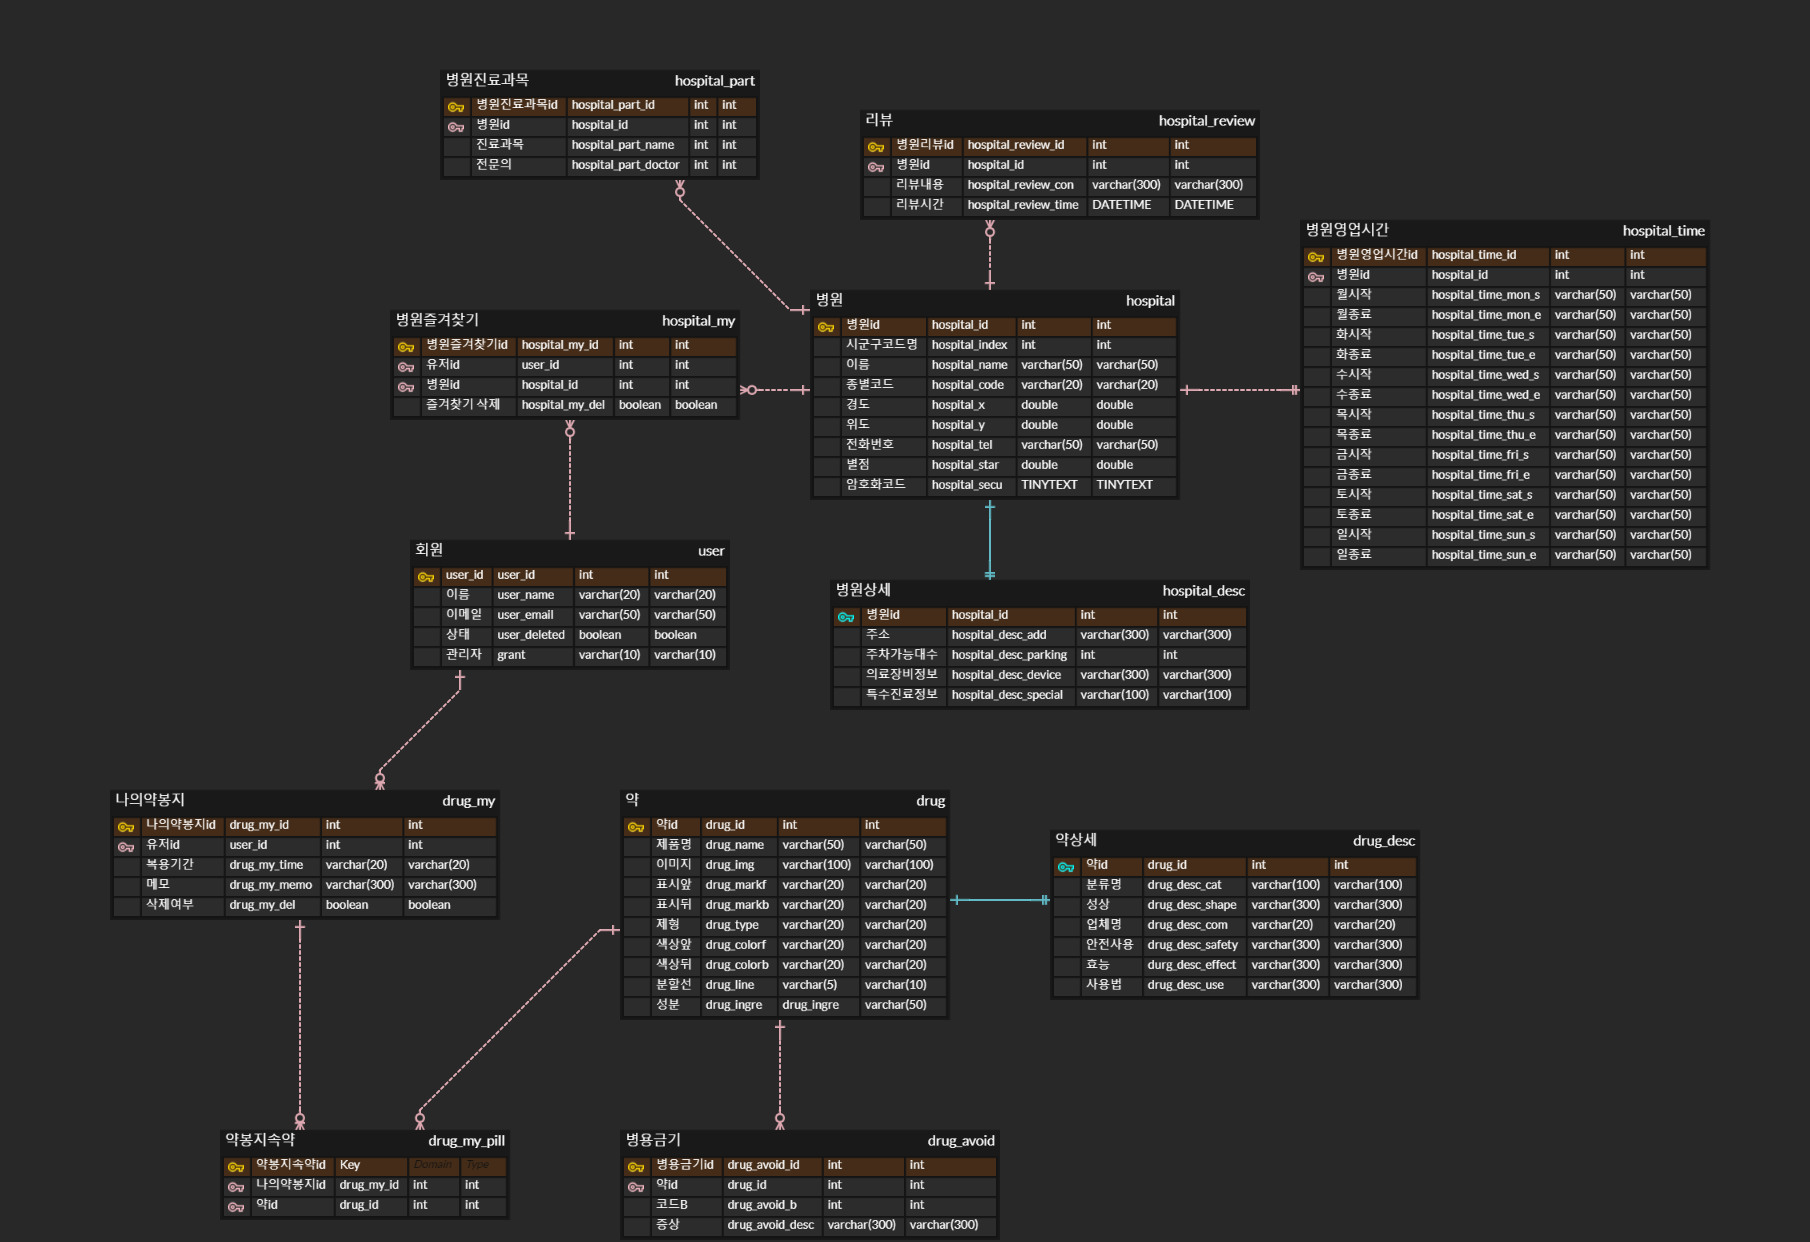
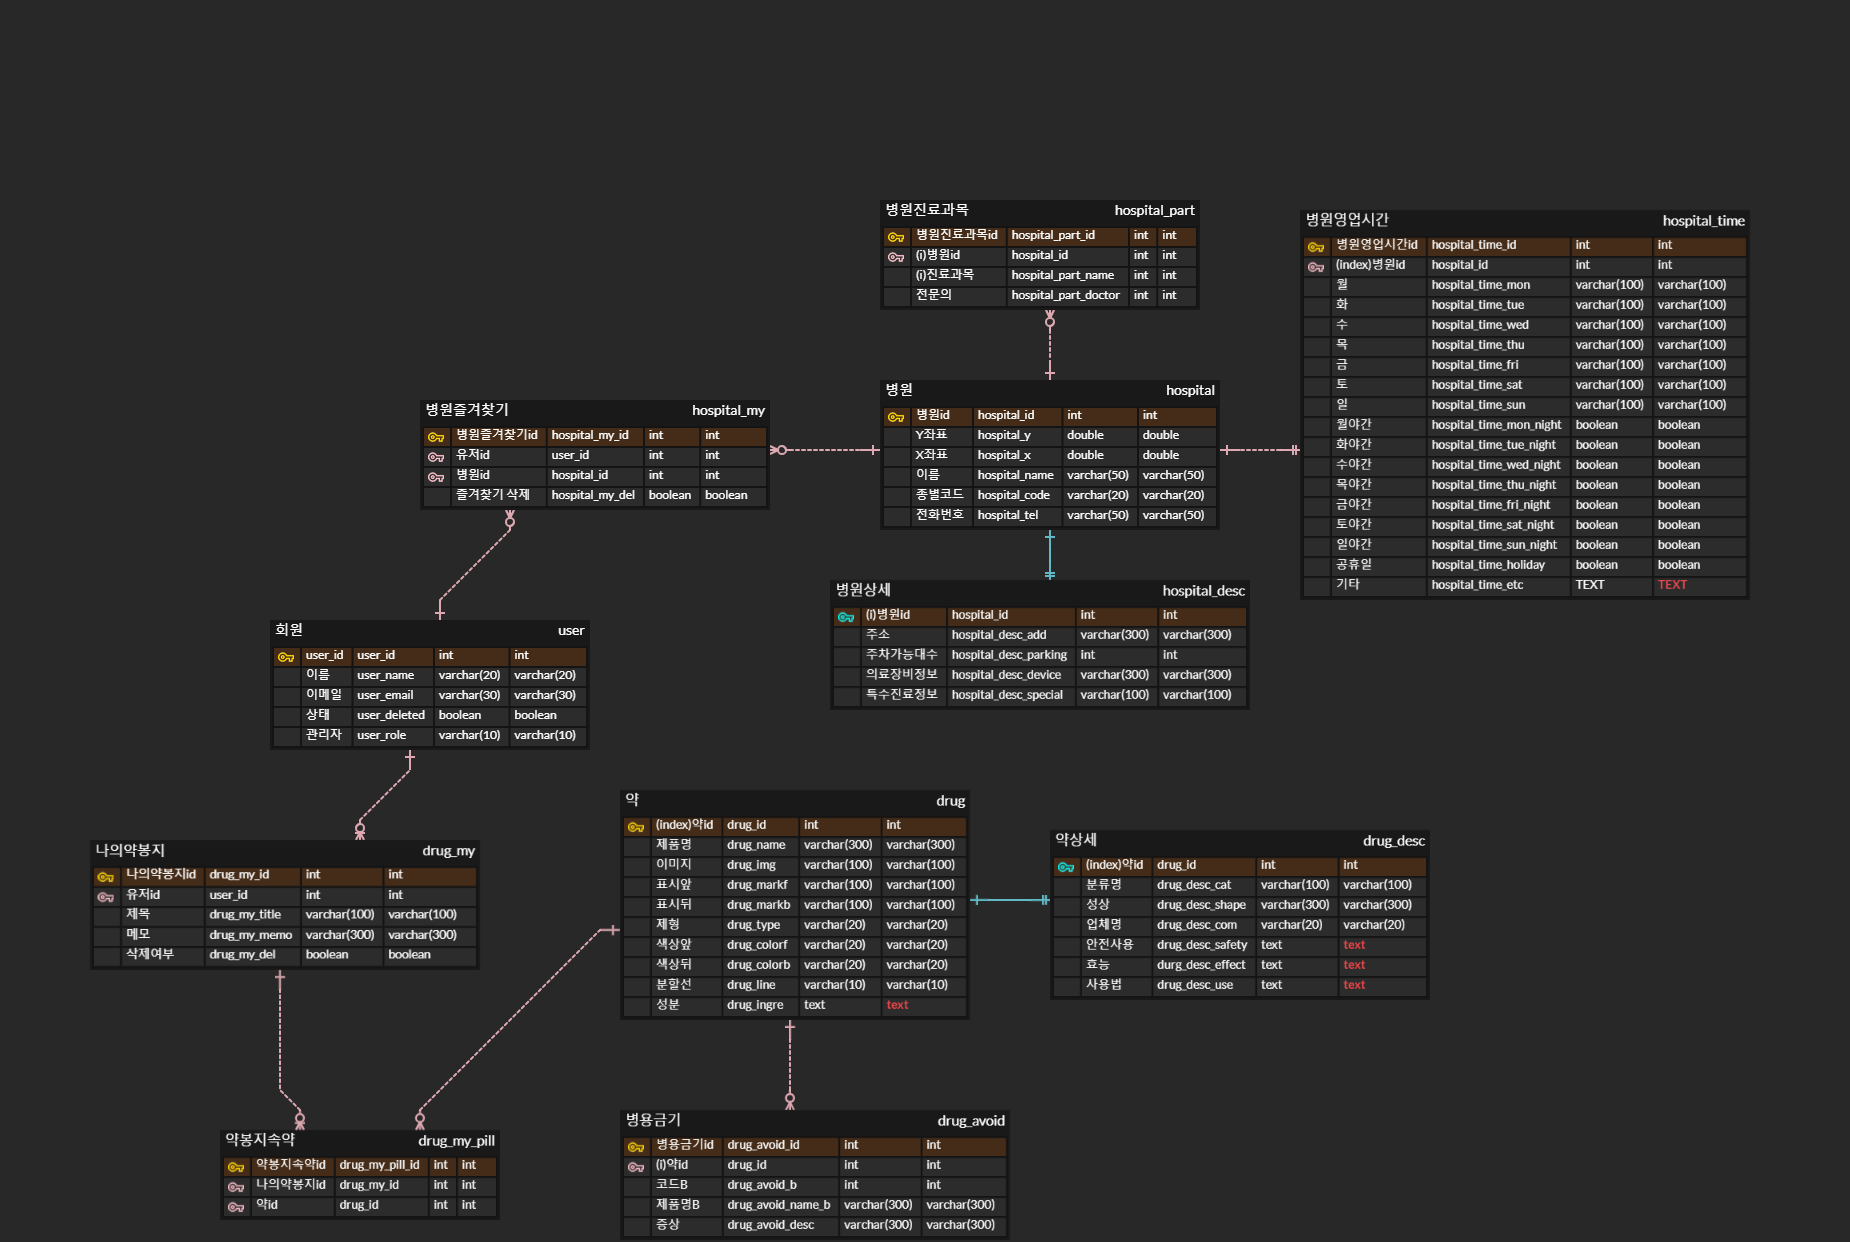
[Docs] 리드미 수정

diff --git a/DOCS/DB컬럼설명.md b/DOCS/DB컬럼설명.md
@@ -6,7 +6,7 @@
 
 ### user_name
 
-이름 
+이름
 
 ### user_email
 
@@ -28,8 +28,13 @@
 
 자체적으로 생성한 고유 병원id
 
-### hospital_location
-point 형으로 저장된 병원의 좌표값
+### hospital_y
+
+저장된 병원의 위도
+
+### hospital_x
+
+저장된 병원의 경도
 
 ### hospital_name
 
@@ -42,10 +47,6 @@ point 형으로 저장된 병원의 좌표값
 ### hospital_tel
 
 전화번호
-
-### hospital_star
-
-크롤링한 별점
 
 ---
 
@@ -83,13 +84,21 @@ point 형으로 저장된 병원의 좌표값
 
 고유 병원 id
 
-### hospital_time_mon_s
+### hospital_time_mon ~ hospital_time_sun
 
-월요일 시작시간
+월요일 ~ 일요일 진료 시간
 
-### hospital_time_mon_e
+### hospital_time_mon_night ~ hospital_time_sun_night
 
-월요일 종료시간
+월요일 ~ 일요일 야간 진료 여부
+
+### hospital_time_holiday
+
+공휴일 진료 여부
+
+### hospital_time_etc
+
+병원 진료 시간 기타 정보
 
 ---
 
@@ -110,26 +119,6 @@ point 형으로 저장된 병원의 좌표값
 ### hospital_part_doctor
 
 해당 진료과목의 전문의
-
----
-
-## hospital_review
-
-### hospital_review_id
-
-병원리뷰 고유id
-
-### hospital_id
-
-고유 병원 id
-
-### hospial_review_con
-
-병원리뷰내용
-
-### hospital_review_time
-
-병원리뷰의 작성시간
 
 ---
 
@@ -167,7 +156,7 @@ point 형으로 저장된 병원의 좌표값
 
 약의 이미지 주소
 
-### drug_markf drug_markb
+### drug_markf, drug_markb
 
 약에 쓰여진 식별 문자
 
@@ -175,7 +164,7 @@ point 형으로 저장된 병원의 좌표값
 
 약의 모양(정방형, 타원형, 원형, 세모)
 
-### drug_colorf drug_colorb
+### drug_colorf, drug_colorb
 
 약의 색
 
@@ -235,6 +224,10 @@ point 형으로 저장된 병원의 좌표값
 
 약의 id, 피해야하는 약
 
+### drug_avoid_name_b
+
+피해야하는 약의 이름
+
 ### drug_avoid_desc
 
 같이 복용 시 부작용 설명
@@ -251,9 +244,9 @@ point 형으로 저장된 병원의 좌표값
 
 유저 id
 
-### drug_my_time
+### drug_my_title
 
-복용기간
+나의 약봉지에 적을 제목
 
 ### drug_my_memo
 
